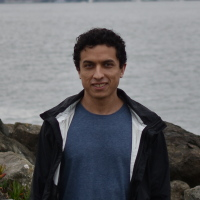
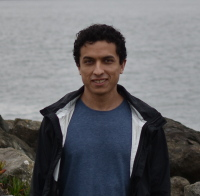
pic update

diff --git a/index.html b/index.html
@@ -4,7 +4,7 @@ title: Seth Gossage
 ---
 <div class="blurb">
 	<h1>Seth Gossage</h1>
-	<img src="/imgs/sef200x200.JPG" width="200", height="200"/>
+	<img src="/imgs/sef200x200.JPG" width="200", height="196"/>
 	<p>Fourth year Ph.D. student at the Harvard-Smithsonian 
 	   Center for Astrophysics and NSF Graduate Research Fellow. I'm 
 	   studying stellar evolution as a member of Professor 
